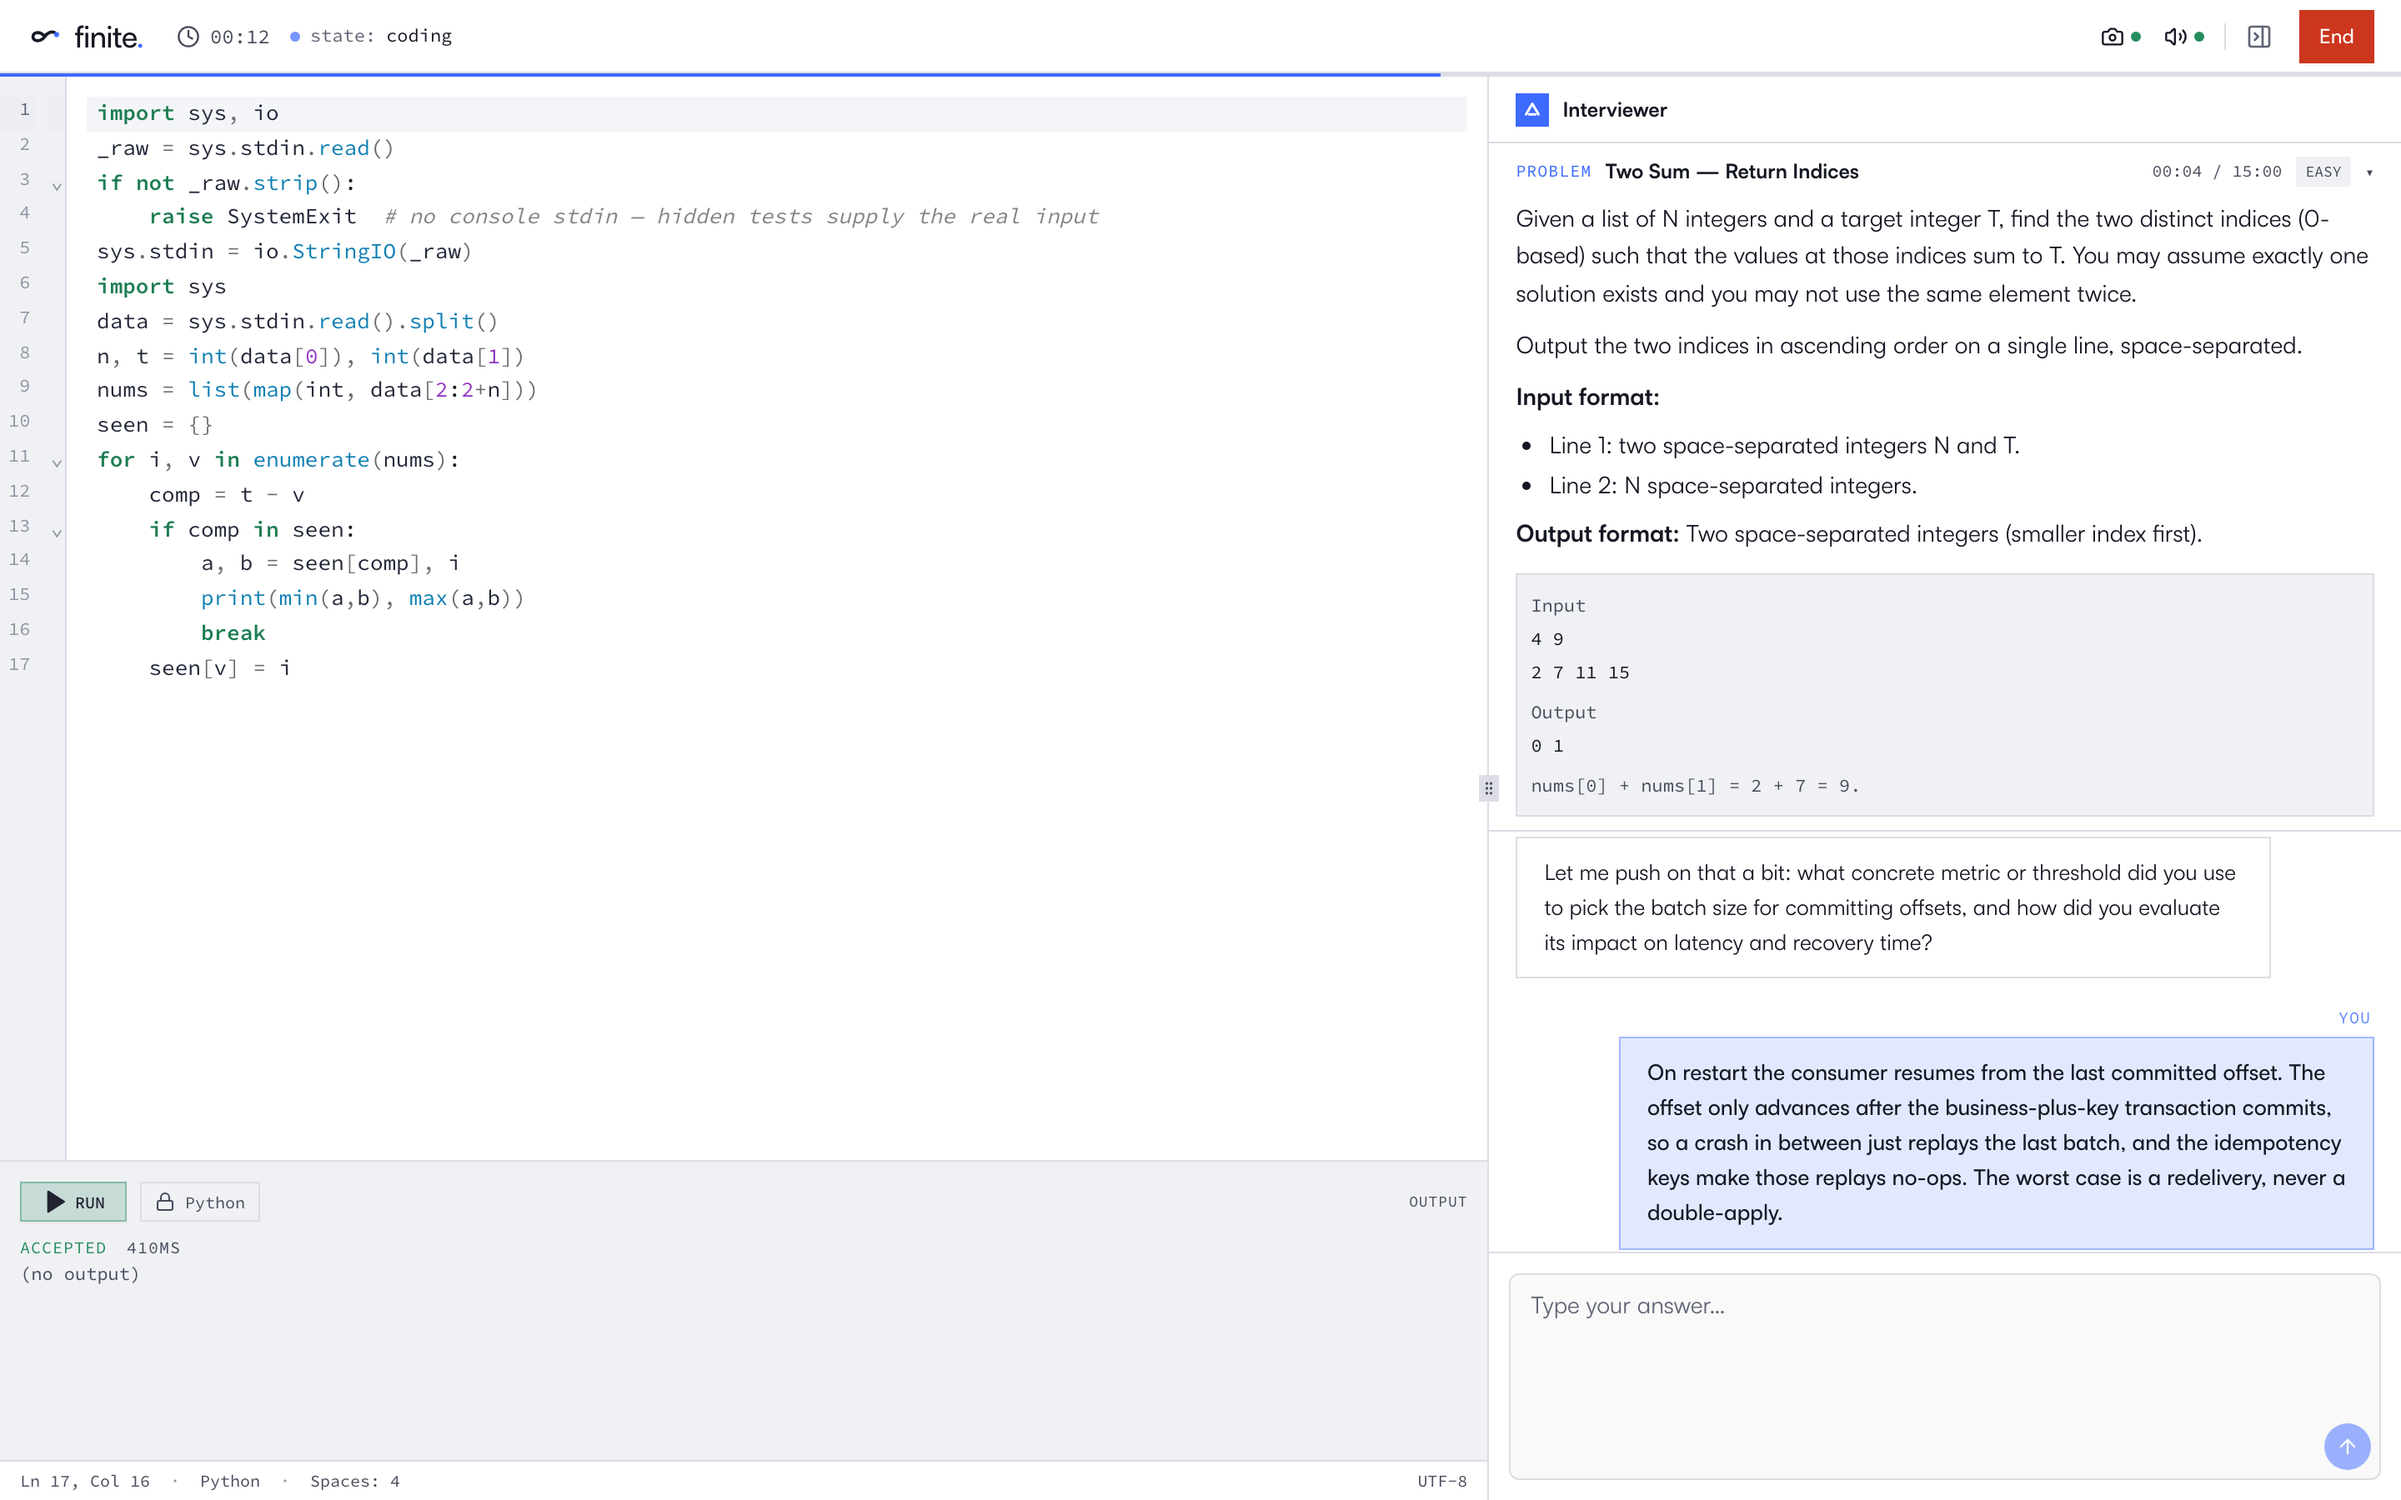
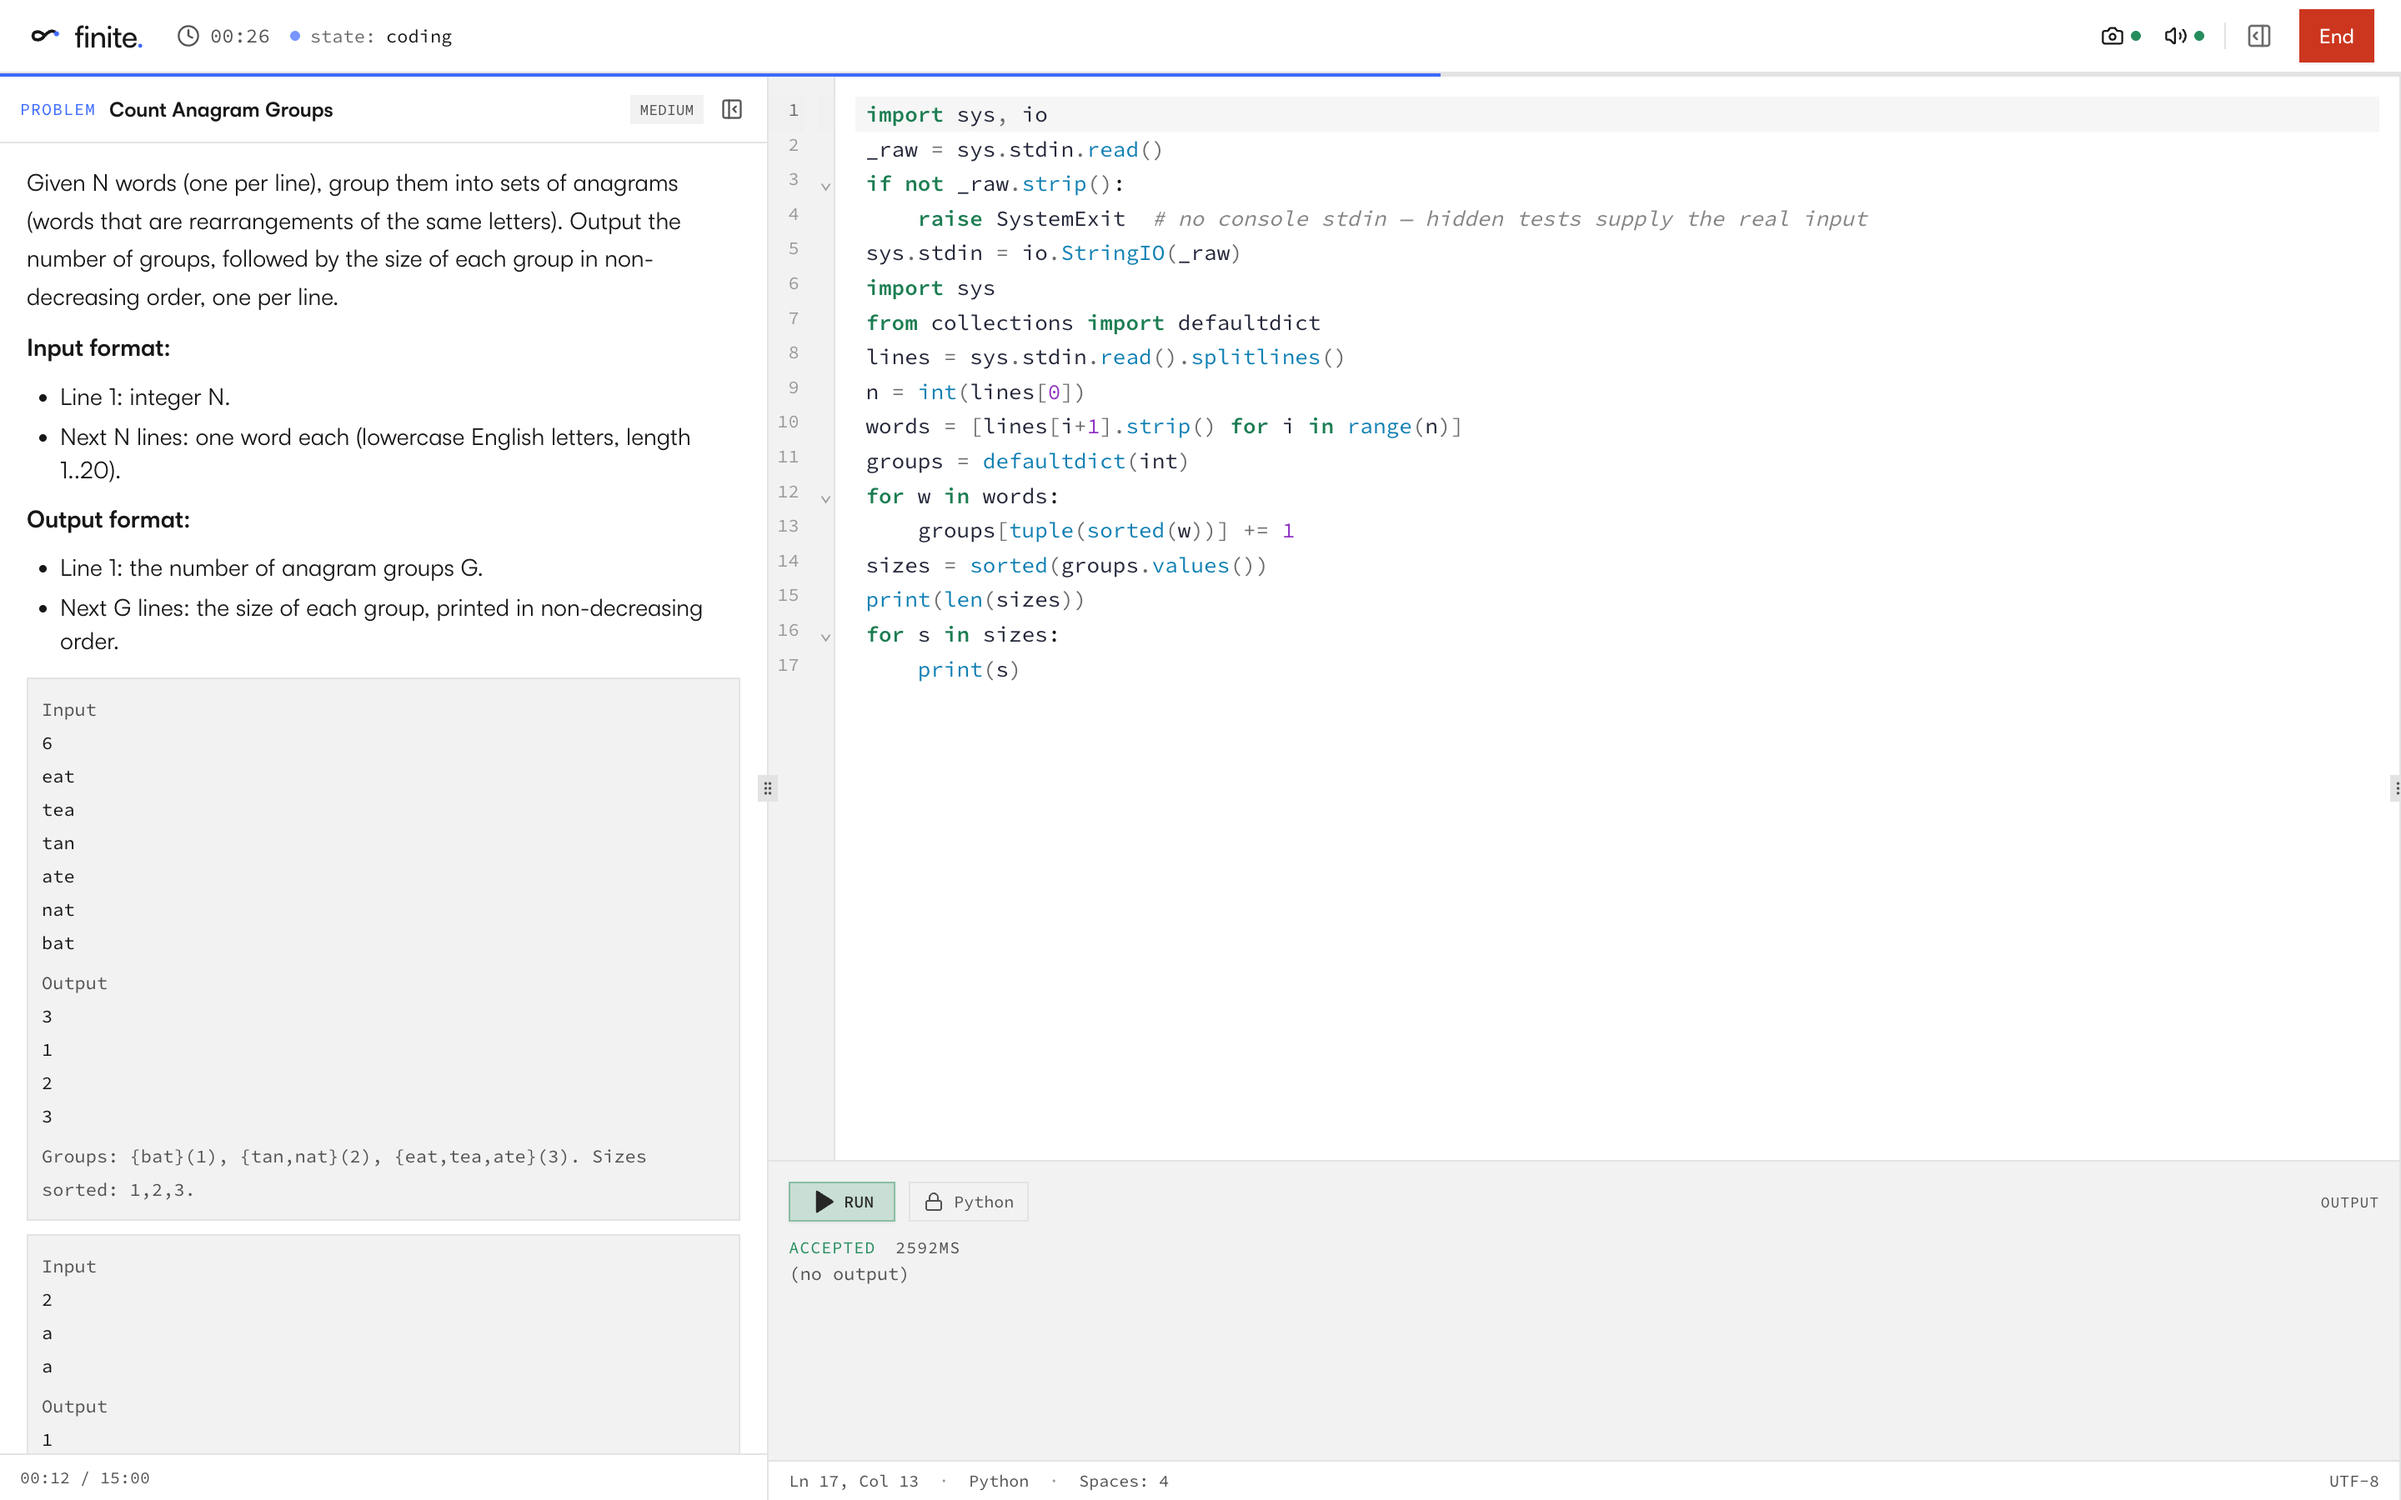
fix(design): re-capture anatomy stills on charcoal + auto-collapse chat when the question lands
- The 8 /shots stills (anatomy walkthrough) were captured under the old navy
  palette — the last blue-tinted surfaces in dark mode. Re-captured on the
  charcoal system via capture-marketing (avg tint now neutral in both themes);
  the coding stills also show the new problem dock.
- The chat panel now auto-collapses (existing Supabase-slide path) when a
  coding question lands in the dock, giving problem + editor the full width.
  It slides back automatically when the interviewer says anything mid-coding
  (the composer lives in the chat panel — a probe must never land behind a
  collapsed panel) and when coding ends; the top-bar toggle stays manual.

diff --git a/frontend/app/interview/[id]/page.tsx b/frontend/app/interview/[id]/page.tsx
@@ -487,6 +487,11 @@ export default function InterviewPage() {
     if (!chatCollapsed && !chatAnimating) setChatSlideW(null);
   }, [chatCollapsed, chatAnimating]);
   const chatAnimClass = chatAnimating ? '[transition:flex_260ms_ease-in-out]' : '';
+  // Live mirror for callbacks that must read the collapse state without re-binding (refetchProblem).
+  const chatCollapsedRef = useRef(false);
+  useEffect(() => {
+    chatCollapsedRef.current = chatCollapsed;
+  }, [chatCollapsed]);
 
   // ── Proctor hook ──────────────────────────────────────────────────────────────
   // Camera proctoring: face detection runs entirely in-browser via a Web Worker.
@@ -593,8 +598,12 @@ export default function InterviewPage() {
       problemCodeIndexRef.current = res.codeIndex;
       problemStartElapsedRef.current = elapsedRef.current; // reset the per-problem soft clock
       setCodingProblem(res.problem);
+      // The question just landed in the dock — auto-collapse the chat so problem + editor get the
+      // full width. Anything conversational slides it back (see the expand effects below), and the
+      // top-bar button stays live for manual reopen.
+      if (!chatCollapsedRef.current) animateChatPanel('collapse');
     }
-  }, [id]);
+  }, [id, animateChatPanel]);
   useEffect(() => {
     if (phase === 'coding') {
       void refetchProblem();
@@ -603,6 +612,23 @@ export default function InterviewPage() {
       setCodingProblem(null);
     }
   }, [phase, messages.length, refetchProblem]);
+
+  // Slide the auto-collapsed chat back open the moment the interviewer says anything mid-coding —
+  // the composer lives in the chat panel, so a probe/hint the candidate must read (and answer)
+  // can never land behind a collapsed panel. Guarded on a NEW message so a manual re-collapse
+  // with a stale transcript isn't fought.
+  const prevMsgCountRef = useRef(0);
+  useEffect(() => {
+    const prev = prevMsgCountRef.current;
+    prevMsgCountRef.current = messages.length;
+    if (messages.length <= prev) return;
+    const last = messages[messages.length - 1];
+    if (phase === 'coding' && chatCollapsed && last?.role === 'ai') animateChatPanel('expand');
+  }, [messages, phase, chatCollapsed, animateChatPanel]);
+  // Coding is over — the conversation takes the stage again.
+  useEffect(() => {
+    if ((phase === 'wrap_up' || phase === 'done') && chatCollapsed) animateChatPanel('expand');
+  }, [phase, chatCollapsed, animateChatPanel]);
 
   const handleVoiceReady = useCallback((cue: ServerReady) => {
     lastExpectsRef.current = cue.expects;
